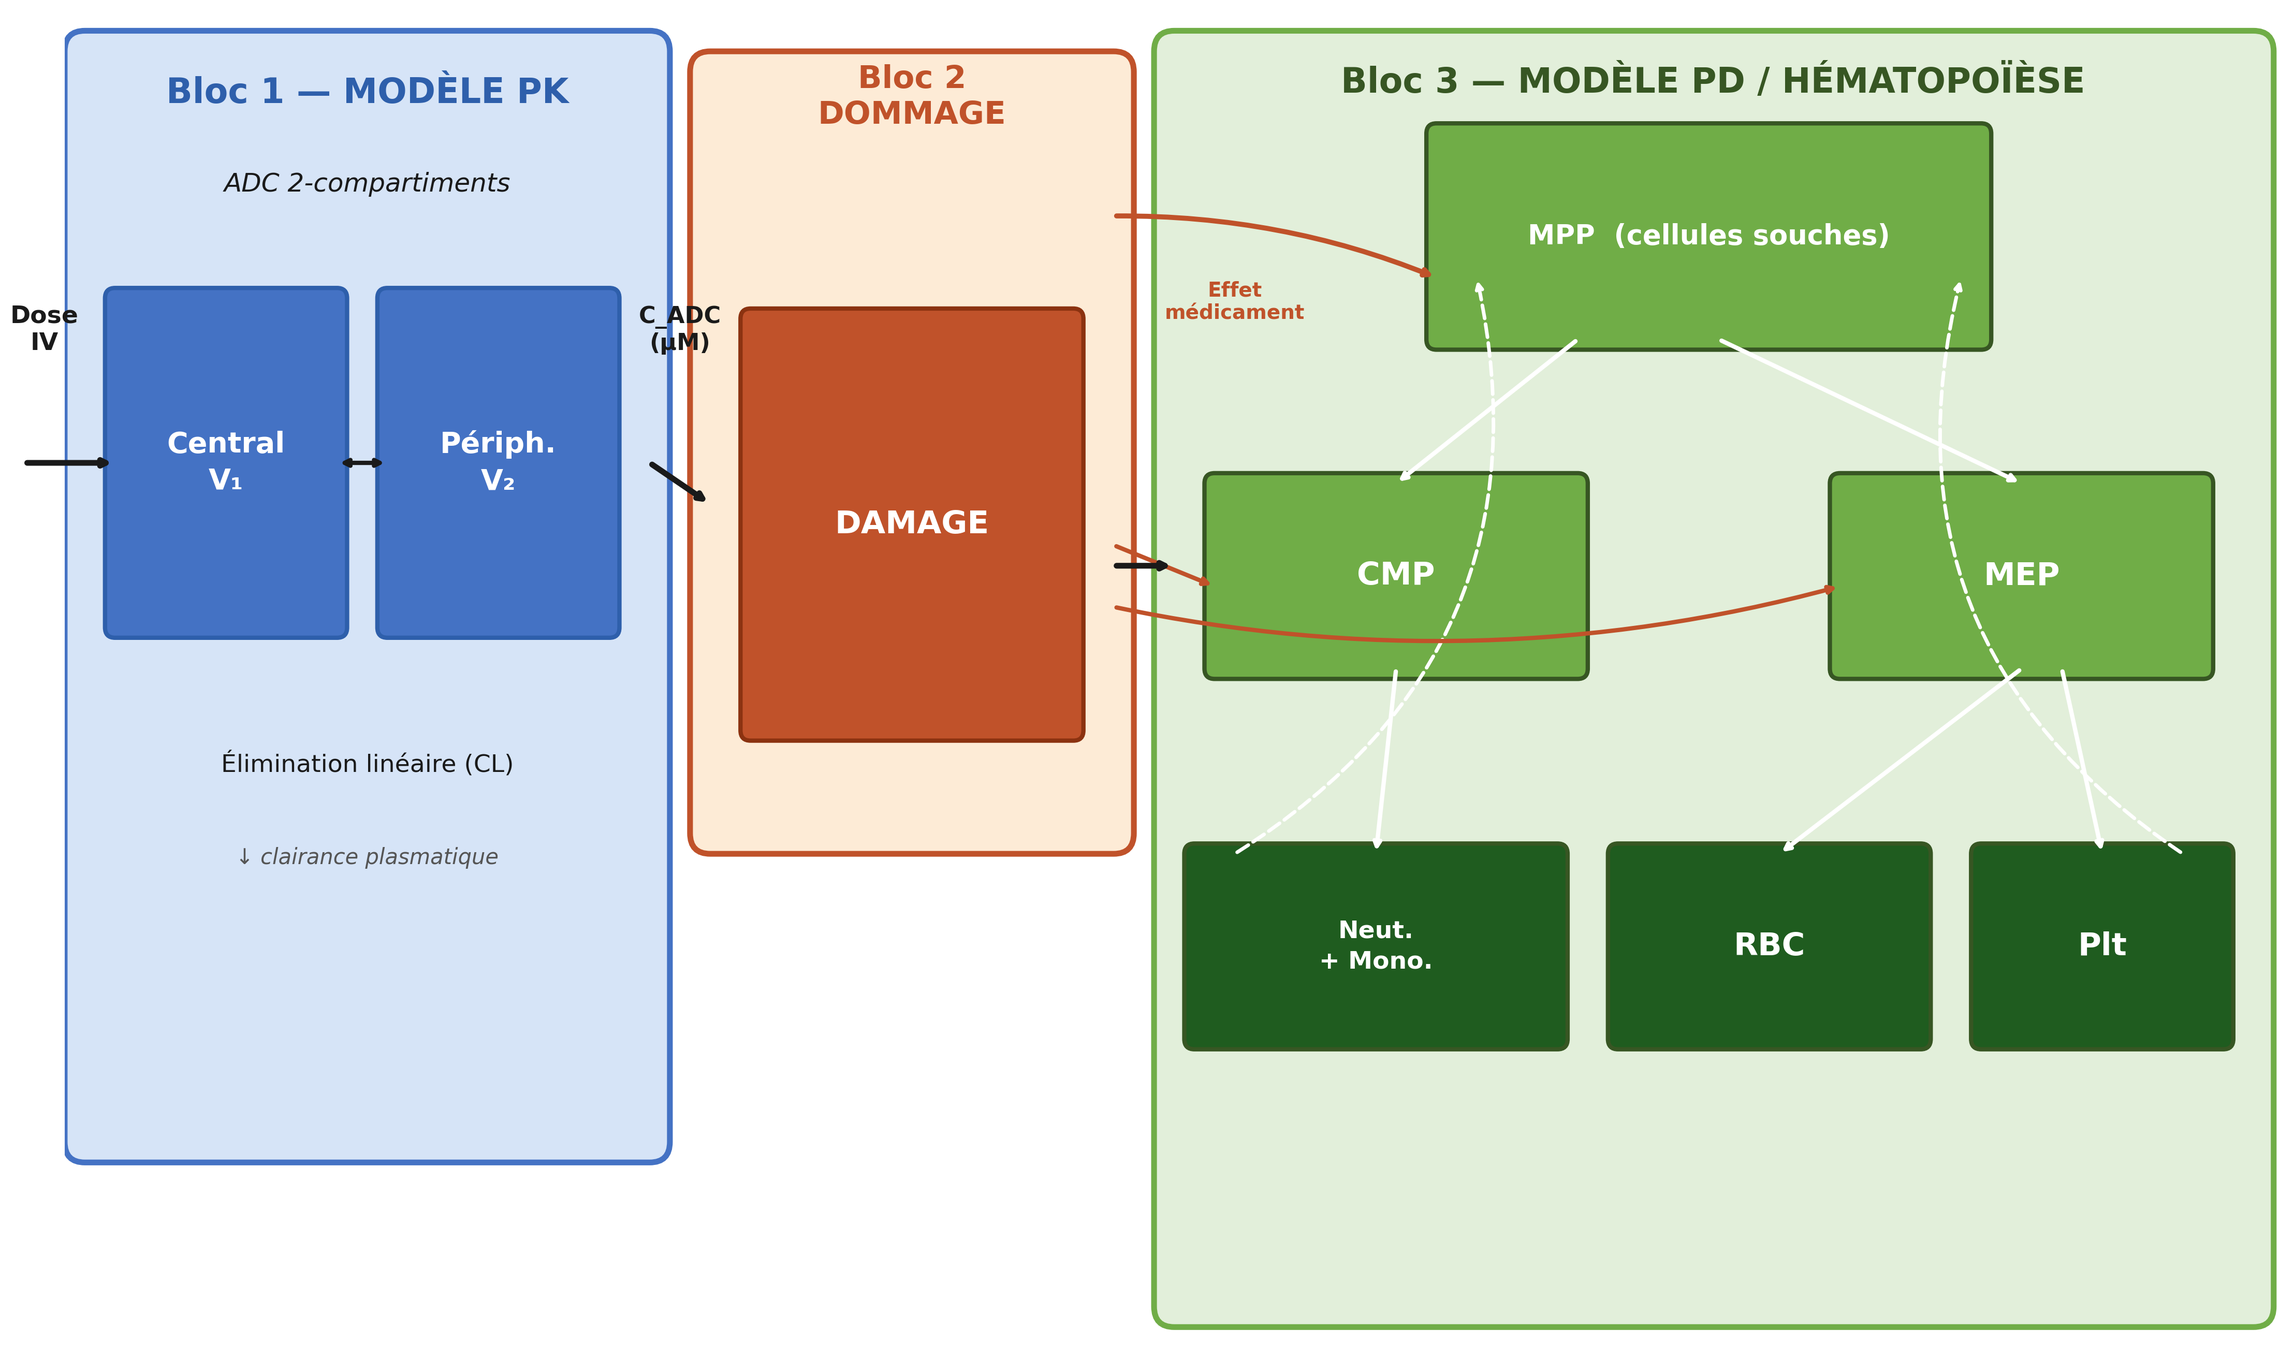
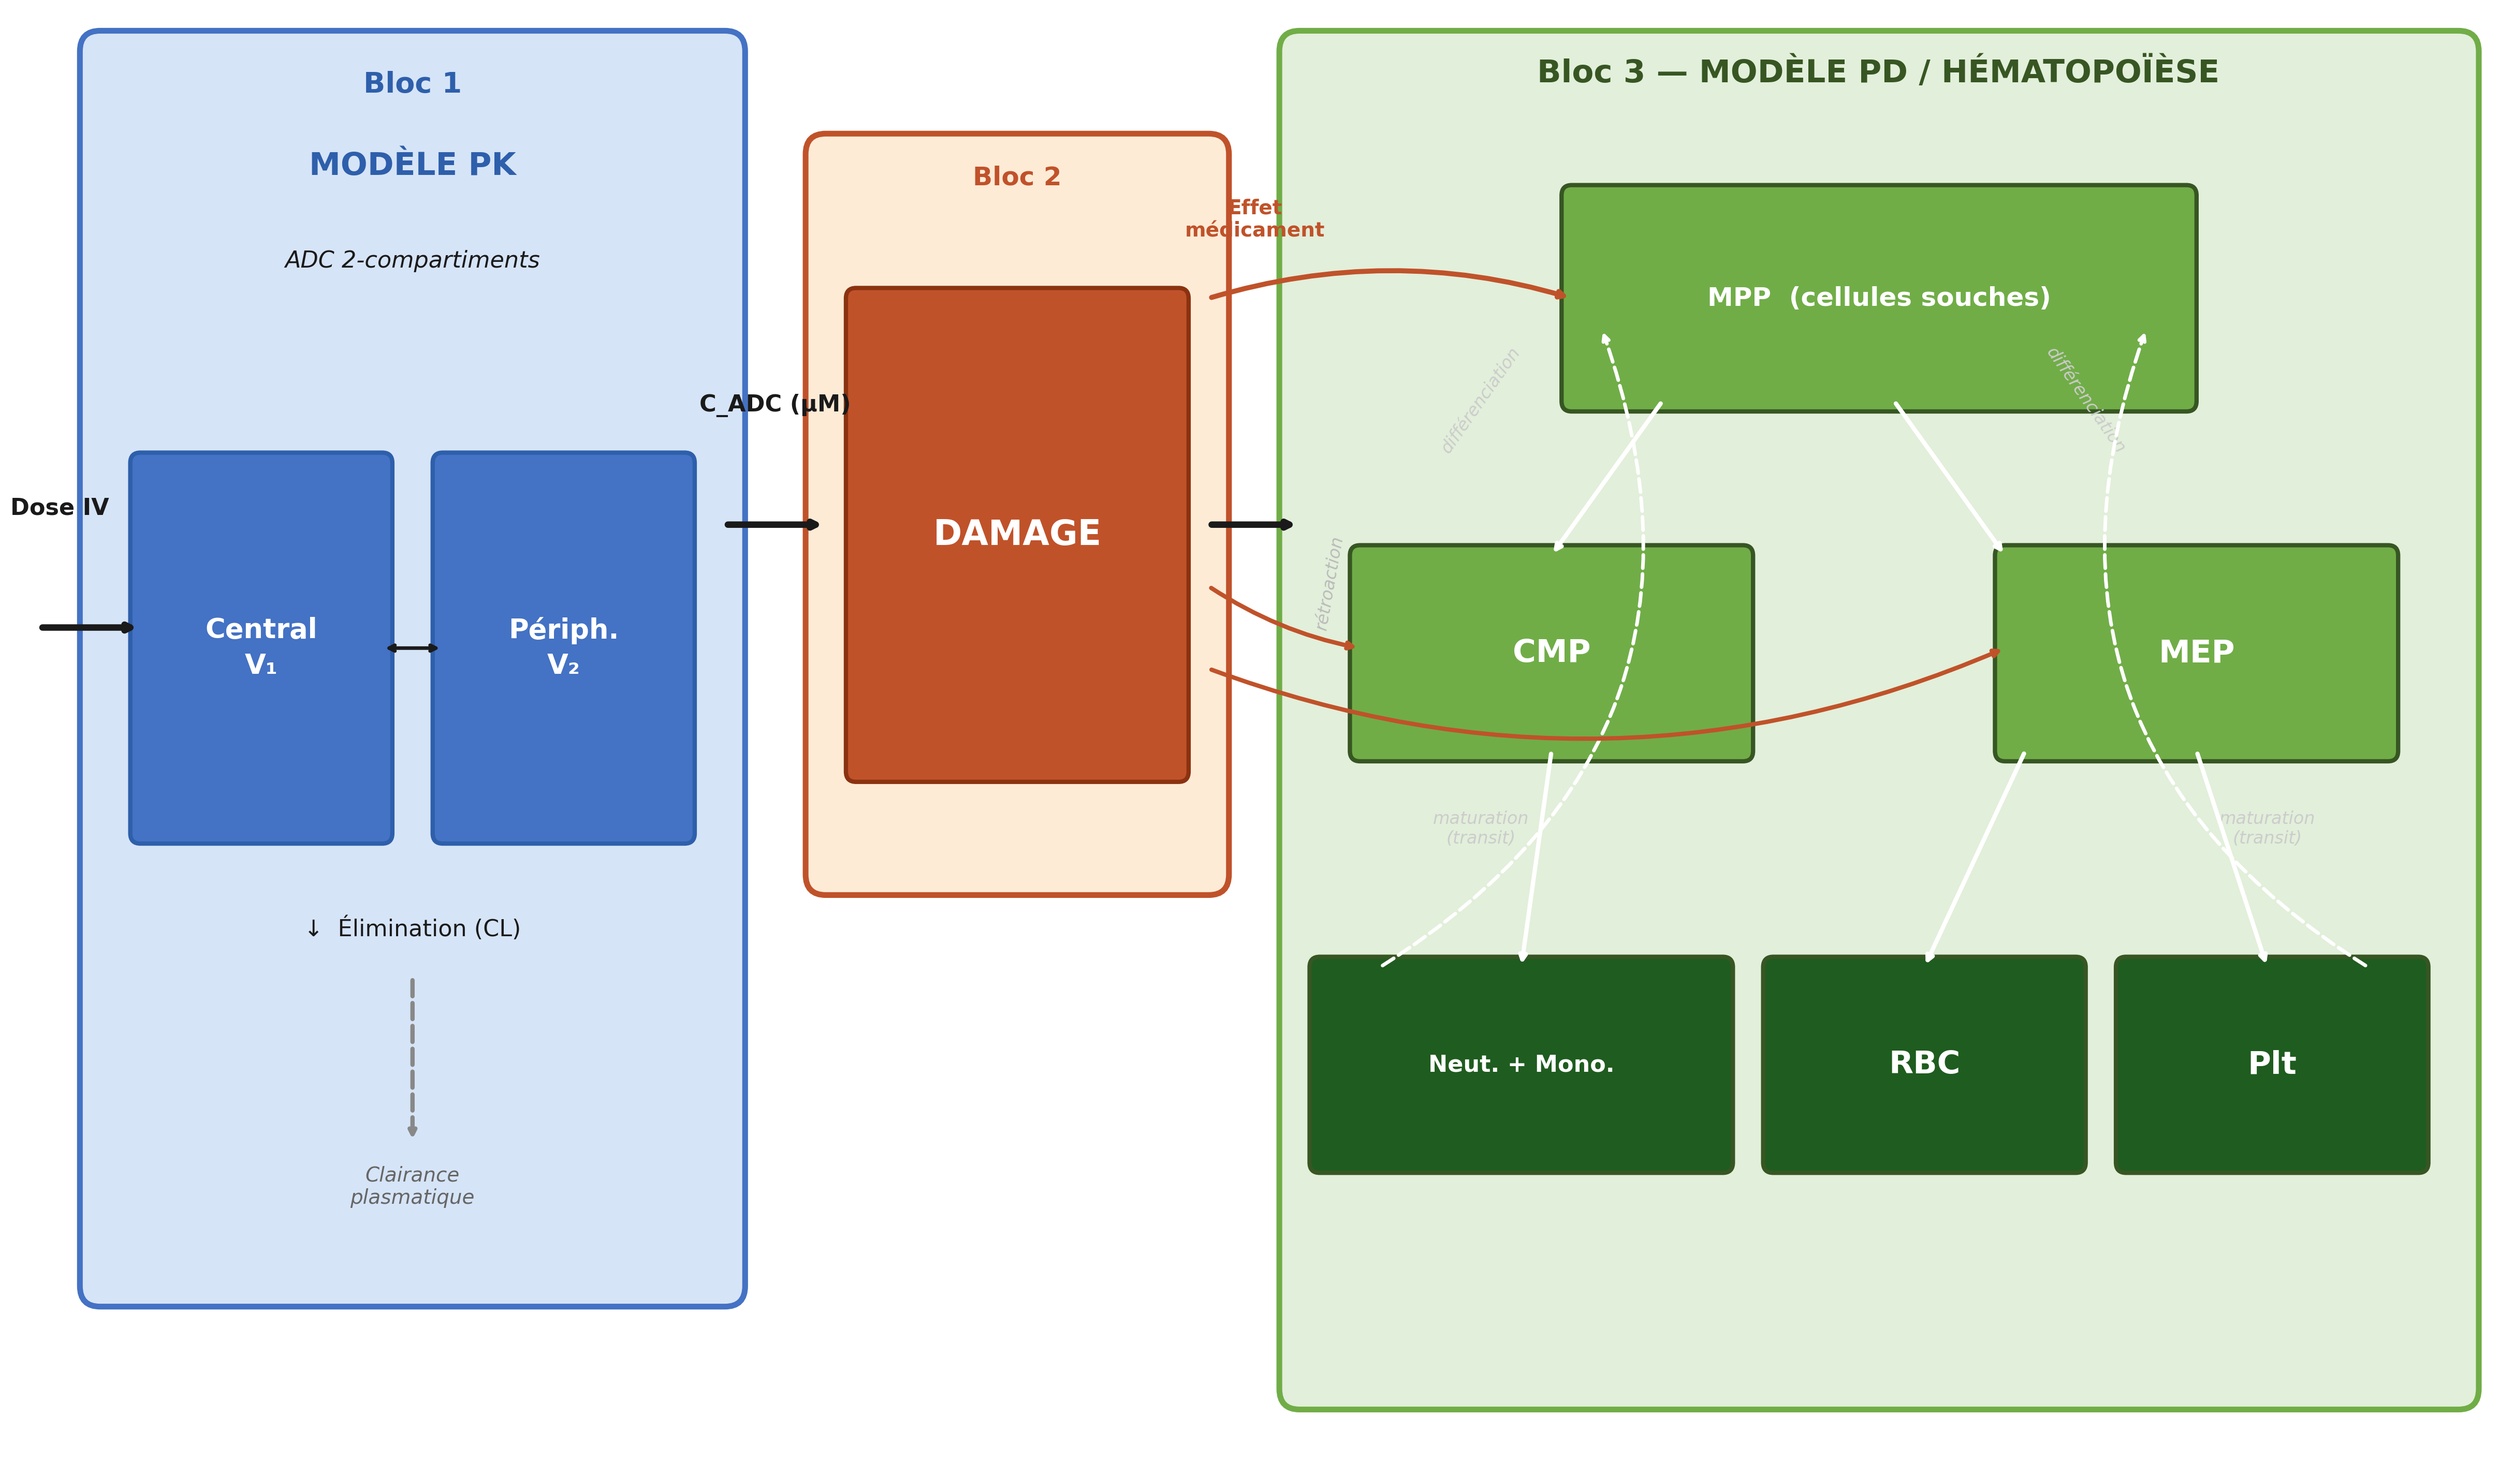
Figure 1 : redesign complet — arbre hématopoïèse propre, polices grandes
https://claude.ai/code/session_01Xq7iVQ2YjVtBT1RakGGhea

Changed region(s): [[0.0, 0.0, 0.9966, 0.9882], [0.1246, 0.6176, 0.218, 0.6485]]

diff --git a/outputs/generate_figures.py b/outputs/generate_figures.py
@@ -29,78 +29,103 @@ GRN   = '#375623'; GRN_M  = '#70AD47'; GRN_L  = '#E2EFDA'; GRN_D = '#1F5C1F'
 DARK  = '#1A1A1A'
 
 # ═══════════════════════════════════════════════════════
-# FIGURE 1 — Modèle PK/PD
-# Espace coordonnées réduit = polices grandes visuellement
+# FIGURE 1 — Modèle PK/PD redesigné
 # ═══════════════════════════════════════════════════════
-fig, ax = plt.subplots(figsize=(22, 13))
-ax.set_xlim(0, 11); ax.set_ylim(0, 6.5)
+fig, ax = plt.subplots(figsize=(24, 14))
+ax.set_xlim(0, 12); ax.set_ylim(0, 7)
 ax.axis('off'); fig.patch.set_facecolor('white')
 
-# ── BLOC 1 : PK ──────────────────────
-ax.add_patch(FancyBboxPatch((0.1, 1.0), 2.8, 5.3, boxstyle="round,pad=0.1",
+# ─── BLOC 1 : PK ─────────────────────────────────────────
+ax.add_patch(FancyBboxPatch((0.15, 0.8), 3.1, 6.0, boxstyle="round,pad=0.1",
     facecolor=BLUE_L, edgecolor=BLUE_M, linewidth=4, zorder=1))
-ax.text(1.5, 6.05, "Bloc 1 — MODÈLE PK", ha='center',
-        fontsize=24, fontweight='bold', color=BLUE, zorder=3)
-ax.text(1.5, 5.62, "ADC 2-compartiments", ha='center',
-        fontsize=18, color=DARK, style='italic', zorder=3)
+ax.text(1.7, 6.6, "Bloc 1", ha='center', fontsize=20, fontweight='bold', color=BLUE, zorder=3)
+ax.text(1.7, 6.2, "MODÈLE PK", ha='center', fontsize=22, fontweight='bold', color=BLUE, zorder=3)
+ax.text(1.7, 5.75, "ADC 2-compartiments", ha='center', fontsize=16, color=DARK, style='italic', zorder=3)
 
-rbox(ax, 0.25, 3.5, 1.1, 1.6, 'Central\nV₁',      BLUE_M, BLUE, fs=20)
-rbox(ax, 1.6,  3.5, 1.1, 1.6, 'Périph.\nV₂',      BLUE_M, BLUE, fs=20)
-ax.annotate('', xy=(1.6, 4.3), xytext=(1.35, 4.3),
-            arrowprops=dict(arrowstyle='<->', color=DARK, lw=3), zorder=4)
+# Dose IV → V1
+arr(ax, -0.15, 4.0, 0.35, 4.0, color=DARK, lw=4.5)
+ax.text(-0.05, 4.55, "Dose IV", ha='center', fontsize=16, fontweight='bold', color=DARK)
 
-ax.text(1.5, 2.8, "Élimination linéaire (CL)", ha='center', fontsize=17, color=DARK, zorder=3)
-ax.text(1.5, 2.35, "↓ clairance plasmatique",   ha='center', fontsize=15,
-        color='#555', style='italic', zorder=3)
+# V1 et V2
+rbox(ax, 0.35, 3.0, 1.2, 1.8, 'Central\nV₁', BLUE_M, BLUE, fs=19)
+rbox(ax, 1.85, 3.0, 1.2, 1.8, 'Périph.\nV₂', BLUE_M, BLUE, fs=19)
+ax.annotate('', xy=(1.85, 3.9), xytext=(1.55, 3.9),
+            arrowprops=dict(arrowstyle='<->', color=DARK, lw=2.5), zorder=4)
 
-arr(ax, -0.2, 4.3, 0.25, 4.3, color=DARK, lw=4)
-ax.text(-0.1, 4.85, "Dose\nIV", ha='center', fontsize=17, fontweight='bold', color=DARK)
+# CL élimination
+ax.text(1.7, 2.5, "↓  Élimination (CL)", ha='center', fontsize=16, color=DARK, zorder=3)
+ax.annotate('', xy=(1.7, 1.5), xytext=(1.7, 2.3),
+            arrowprops=dict(arrowstyle='->', color='#888', lw=3,
+                            linestyle='dashed'), zorder=4)
+ax.text(1.7, 1.2, "Clairance\nplasmatique", ha='center', fontsize=14,
+        color='#666', style='italic', zorder=3)
 
-# ── BLOC 2 : DAMAGE ──────────────────
-ax.add_patch(FancyBboxPatch((3.2, 2.5), 2.0, 3.7, boxstyle="round,pad=0.1",
+# ─── FLÈCHE PK → DAMAGE ──────────────────────────────────
+arr(ax, 3.25, 4.5, 3.75, 4.5, color=DARK, lw=4.5)
+ax.text(3.5, 5.05, "C_ADC (µM)", ha='center', fontsize=16, fontweight='bold', color=DARK)
+
+# ─── BLOC 2 : DAMAGE ─────────────────────────────────────
+ax.add_patch(FancyBboxPatch((3.75, 2.8), 1.9, 3.5, boxstyle="round,pad=0.1",
     facecolor=ORG_L, edgecolor=ORG, linewidth=4, zorder=1))
-ax.text(4.2, 5.95, "Bloc 2\nDOMMAGE", ha='center',
-        fontsize=22, fontweight='bold', color=ORG, zorder=3)
-rbox(ax, 3.4, 3.0, 1.6, 2.0, 'DAMAGE', ORG, '#8B3210', fs=22)
+ax.text(4.7, 6.15, "Bloc 2", ha='center', fontsize=18, fontweight='bold', color=ORG, zorder=3)
+rbox(ax, 3.9, 3.3, 1.6, 2.3, 'DAMAGE', ORG, '#8B3210', fs=24)
 
-arr(ax, 2.9, 4.3, 3.2, 4.1, color=DARK, lw=4)
-ax.text(3.05, 4.85, "C_ADC\n(µM)", ha='center', fontsize=16,
-        fontweight='bold', color=DARK)
+# ─── FLÈCHE DAMAGE → BLOC 3 ──────────────────────────────
+arr(ax, 5.65, 4.5, 6.1, 4.5, color=DARK, lw=4.5)
 
-# ── BLOC 3 : PD / HÉMATOPOÏÈSE ───────
-ax.add_patch(FancyBboxPatch((5.5, 0.2), 5.35, 6.1, boxstyle="round,pad=0.1",
+# ─── BLOC 3 : PD / HÉMATOPOÏÈSE ──────────────────────────
+ax.add_patch(FancyBboxPatch((6.1, 0.3), 5.75, 6.5, boxstyle="round,pad=0.1",
     facecolor=GRN_L, edgecolor=GRN_M, linewidth=4, zorder=1))
-ax.text(8.17, 6.1, "Bloc 3 — MODÈLE PD / HÉMATOPOÏÈSE", ha='center',
-        fontsize=24, fontweight='bold', color=GRN, zorder=3)
+ax.text(8.97, 6.65, "Bloc 3 — MODÈLE PD / HÉMATOPOÏÈSE",
+        ha='center', fontsize=22, fontweight='bold', color=GRN, zorder=3)
 
-# Niveau 1 : MPP
-rbox(ax, 6.8, 4.9, 2.7, 1.0, 'MPP  (cellules souches)', GRN_M, GRN, fs=19)
+# Niveau 1 : MPP (centré)
+rbox(ax, 7.45, 5.1, 3.05, 1.0, 'MPP  (cellules souches)', GRN_M, GRN, fs=18)
 
-# Niveau 2 : CMP + MEP
-rbox(ax, 5.7, 3.3, 1.8, 0.9, 'CMP', GRN_M, GRN, fs=22)
-rbox(ax, 8.8, 3.3, 1.8, 0.9, 'MEP', GRN_M, GRN, fs=22)
-arr(ax, 7.5, 4.9, 6.6, 4.2, color='white', lw=3)
-arr(ax, 8.2, 4.9, 9.7, 4.2, color='white', lw=3)
+# Niveau 2 : CMP (gauche) + MEP (droite)
+rbox(ax, 6.4,  3.4, 1.9, 0.95, 'CMP', GRN_M, GRN, fs=22)
+rbox(ax, 9.6,  3.4, 1.9, 0.95, 'MEP', GRN_M, GRN, fs=22)
 
-# Niveau 3 : cellules matures
-rbox(ax, 5.6, 1.5, 1.8, 0.9, 'Neut.\n+ Mono.', GRN_D, GRN, fs=17)
-rbox(ax, 7.7, 1.5, 1.5, 0.9, 'RBC',             GRN_D, GRN, fs=22)
-rbox(ax, 9.5, 1.5, 1.2, 0.9, 'Plt',             GRN_D, GRN, fs=22)
-arr(ax, 6.6, 3.3, 6.5, 2.4, color='white', lw=3)
-arr(ax, 9.7, 3.3, 8.5, 2.4, color='white', lw=3)
-arr(ax, 9.9, 3.3, 10.1, 2.4, color='white', lw=3)
+# MPP → CMP et MPP → MEP avec label "différenciation"
+arr(ax, 7.9, 5.1, 7.35, 4.35, color='white', lw=3)
+arr(ax, 9.05, 5.1, 9.6, 4.35, color='white', lw=3)
+ax.text(7.0, 4.85, "différenciation", ha='center', fontsize=12,
+        color='#ccc', style='italic', rotation=55, zorder=3)
+ax.text(10.0, 4.85, "différenciation", ha='center', fontsize=12,
+        color='#ccc', style='italic', rotation=-55, zorder=3)
 
-# Feedbacks
-darr(ax, 5.8, 2.4, 7.0, 5.2, color='white', lw=2.5, rad=0.35)
-darr(ax, 10.5, 2.4, 9.4, 5.2, color='white', lw=2.5, rad=-0.35)
+# Niveau 3 : cellules matures (avec label "maturation + transit")
+rbox(ax, 6.2,  1.4, 2.0, 0.95, 'Neut. + Mono.', GRN_D, GRN, fs=16)
+rbox(ax, 8.45, 1.4, 1.5, 0.95, 'RBC',            GRN_D, GRN, fs=22)
+rbox(ax, 10.2, 1.4, 1.45,0.95, 'Plt',            GRN_D, GRN, fs=22)
 
-# Effets médicament
-arr(ax, 5.2, 5.5, 6.8, 5.2, color=ORG, lw=3.5, rad=-0.1)
-ax.text(5.8, 5.0, "Effet\nmédicament", ha='center',
-        fontsize=14, color=ORG, fontweight='bold', zorder=6)
-arr(ax, 5.2, 3.9, 5.7, 3.7, color=ORG, lw=3)
-arr(ax, 5.2, 3.6, 8.8, 3.7, color=ORG, lw=3, rad=0.12)
-arr(ax, 5.2, 3.8, 5.5, 3.8, color=DARK, lw=4)
+arr(ax, 7.35, 3.4, 7.2, 2.35, color='white', lw=3)
+arr(ax, 9.7,  3.4, 9.2, 2.35, color='white', lw=3)
+arr(ax, 10.55,3.4,10.9, 2.35, color='white', lw=3)
+
+ax.text(7.0, 2.95, "maturation\n(transit)", ha='center', fontsize=12,
+        color='#ccc', style='italic', zorder=3)
+ax.text(10.9, 2.95, "maturation\n(transit)", ha='center', fontsize=12,
+        color='#ccc', style='italic', zorder=3)
+
+# Feedbacks (rétroaction homéostatique)
+darr(ax, 6.5, 2.35, 7.6, 5.45, color='white', lw=2.5, rad=0.4)
+darr(ax, 11.4, 2.35, 10.3, 5.45, color='white', lw=2.5, rad=-0.4)
+ax.text(6.25, 4.0, "rétroaction", ha='center', fontsize=12,
+        color='#bbb', style='italic', rotation=80, zorder=3)
+
+# Effets médicament (DAMAGE → MPP, CMP, MEP)
+ax.annotate('', xy=(7.45, 5.6), xytext=(5.65, 5.6),
+            arrowprops=dict(arrowstyle='->', color=ORG, lw=3.5,
+                            connectionstyle='arc3,rad=-0.15'), zorder=6)
+ax.annotate('', xy=(6.4, 3.9), xytext=(5.65, 4.2),
+            arrowprops=dict(arrowstyle='->', color=ORG, lw=3,
+                            connectionstyle='arc3,rad=0.1'), zorder=6)
+ax.annotate('', xy=(9.6, 3.9), xytext=(5.65, 3.8),
+            arrowprops=dict(arrowstyle='->', color=ORG, lw=3,
+                            connectionstyle='arc3,rad=0.2'), zorder=6)
+ax.text(5.88, 5.9, "Effet\nmédicament", ha='center', fontsize=14,
+        fontweight='bold', color=ORG, zorder=6)
 
 plt.tight_layout(pad=0.3)
 plt.savefig('/home/user/Hema/outputs/figure_pkpd_model.png', dpi=200,
